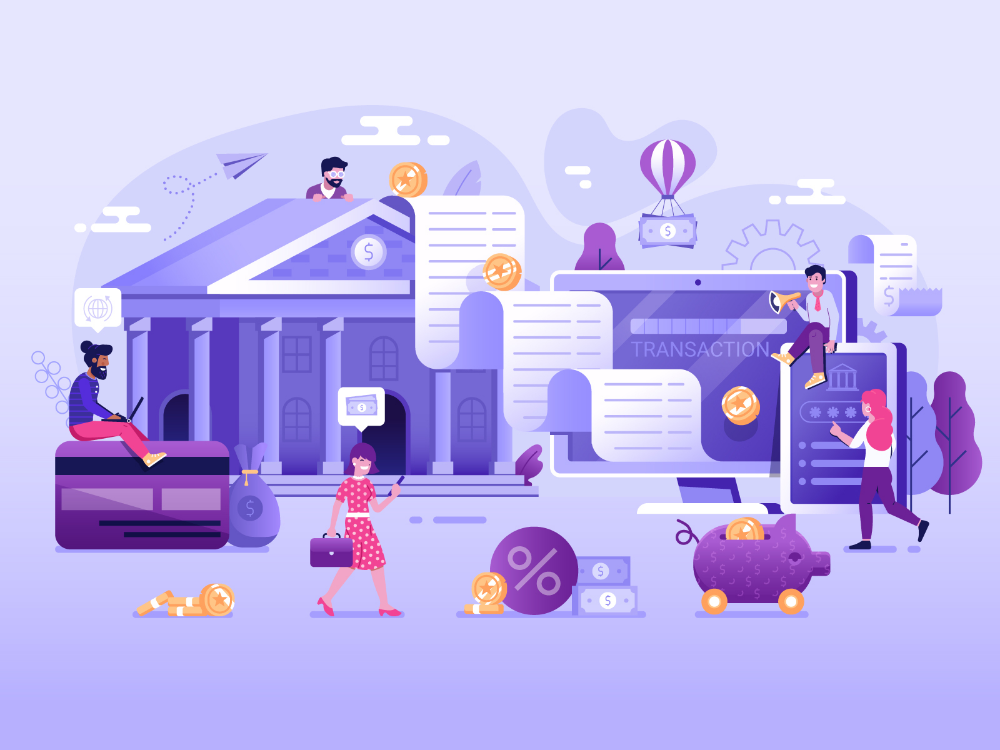
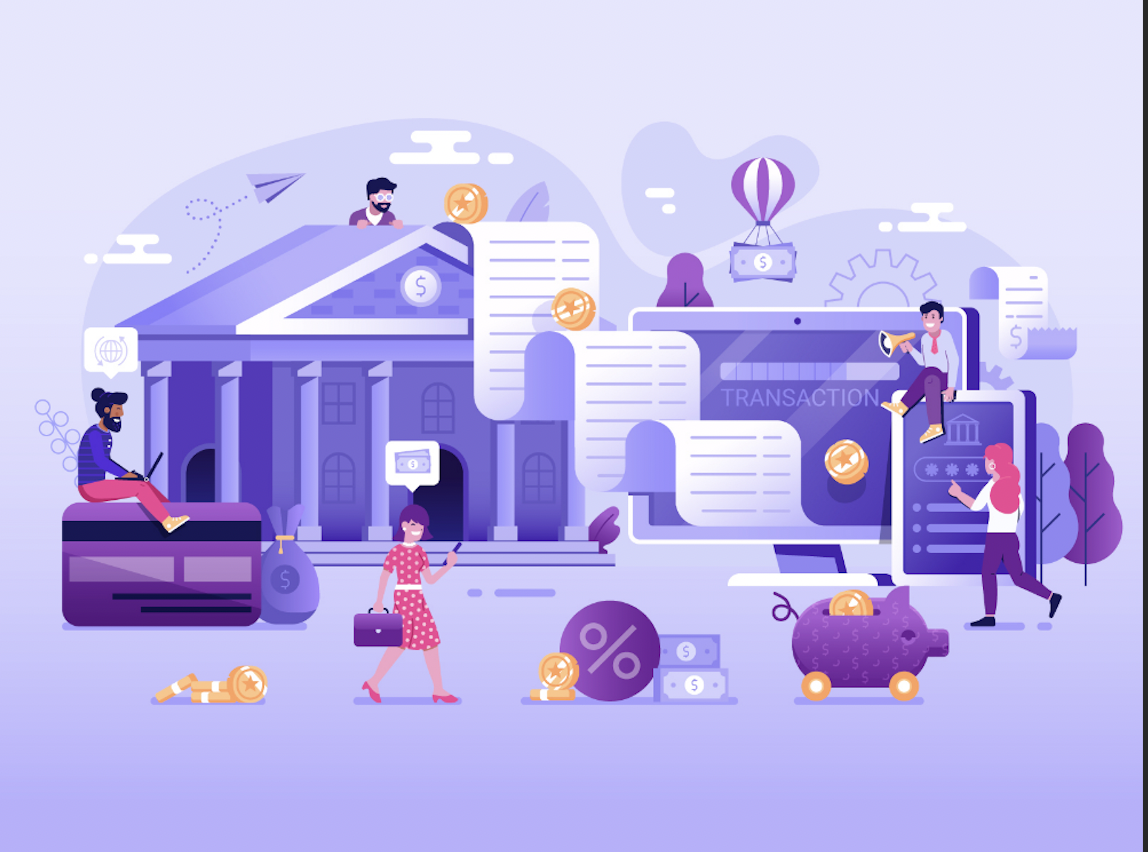
.

diff --git a/hugo/content/docs/money-transfer-saga.md b/hugo/content/docs/money-transfer-saga.md
@@ -6,7 +6,7 @@ tags: [protoactor, patterns]
 author: Tom Liversidge 
 authorimage: "/docs/images/authors/TomLiversidge.jpeg"
 authorsite: "https://blog.oklahome.net/"
-backgroundimage: "/docs/images/backgrounds/bank.png"
+backgroundimage: "/docs/images/backgrounds/bank2.png"
 
 ---
 
